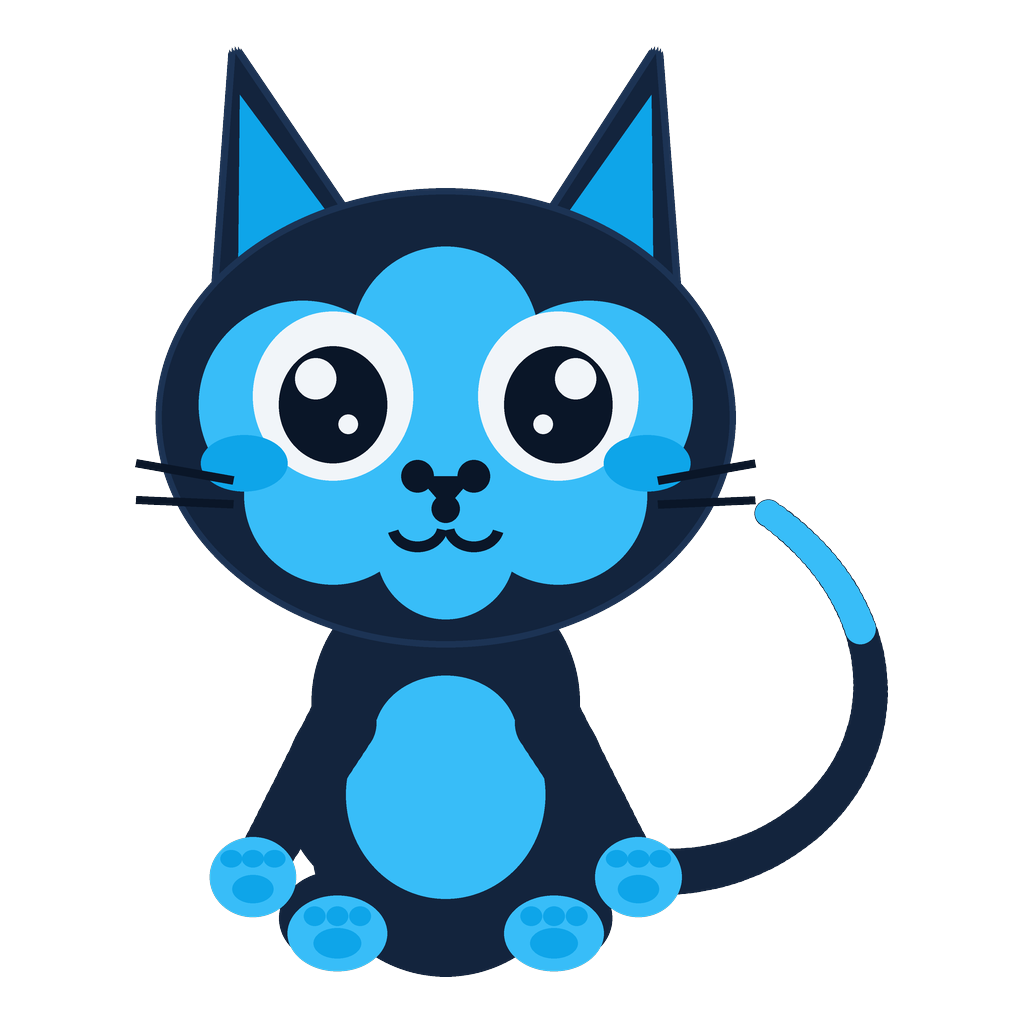
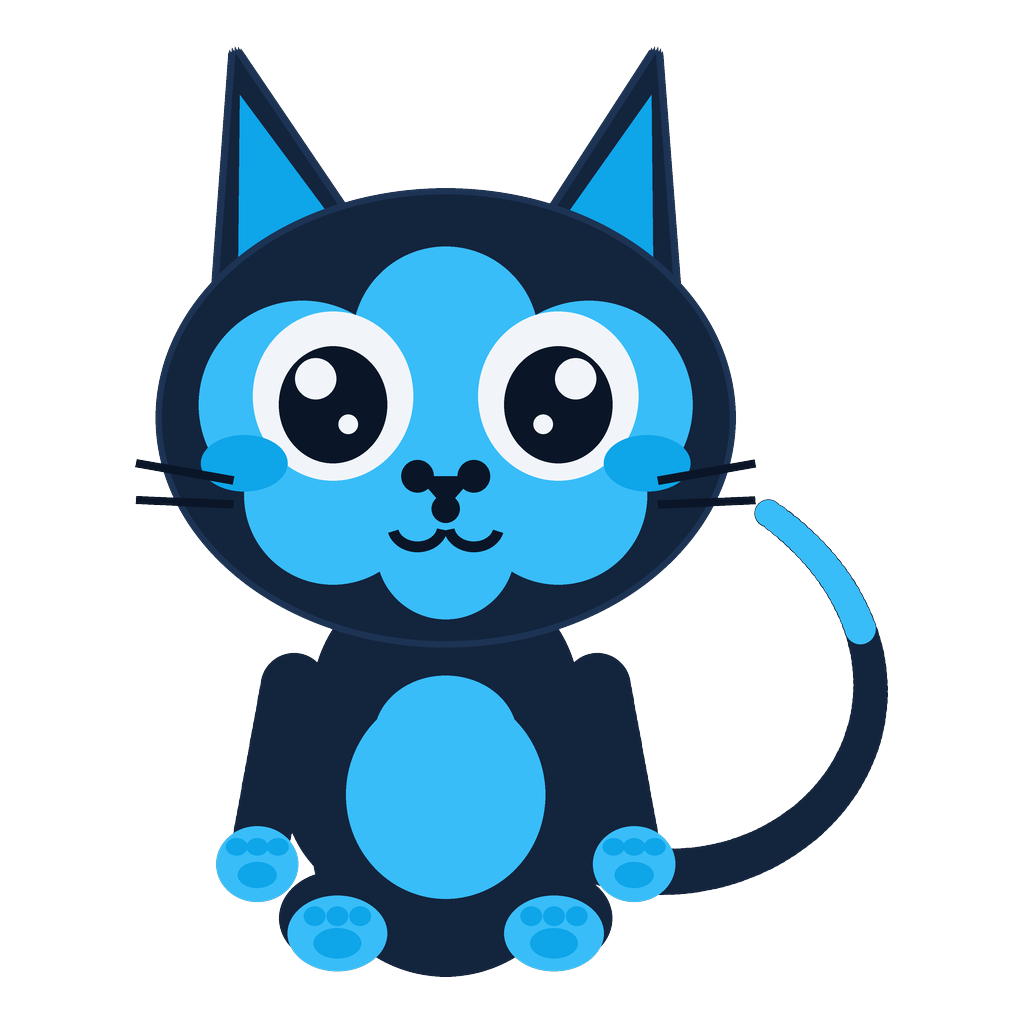
Mascot: attach the arms at the shoulder
The arm started deep inside the torso, around its middle. The arm is far
thinner than the body is wide, so the entire limb was swallowed by the
torso silhouette — no shoulder, no arm, just a paw apparently stuck to
the side of the body. Moving the paw made it worse, because the paw
travelled while the joint it hangs from stayed where it was.

The shoulder now sits high at the outer corner of the torso, just under
the head, and the arm hangs down the outside of the body. Measured along
its length: 37-52px of arm is visible outside the torso from shoulder to
paw, where before it was zero for most of the run.

diff --git a/scripts/make_mascot.py b/scripts/make_mascot.py
@@ -142,23 +142,26 @@ def draw_body(d):
     # Thin. At the old thickness the arm was as fat as the torso is deep, so
     # the two merged into one dark mass with paws stuck on the outside and no
     # limb readable at all.
-    # The paw has to clear the torso outline entirely. The torso is widest
-    # at y=786 (half-width 150) and narrows below that, so the hand hangs
-    # LOW — level with the widest point it was buried 14px deep and read as
-    # part of the body rather than a paw resting beside it. The arm drops
-    # steeply rather than reaching out sideways.
+    # The arm attaches at the SHOULDER — high, at the outer corner of the
+    # torso just under the head — and hangs down the OUTSIDE of the body.
+    #
+    # It used to start deep inside the torso around its middle. Because the
+    # arm is far thinner than the body is wide, the whole limb was swallowed
+    # by the torso silhouette: there was no shoulder, no arm, just a paw
+    # apparently stuck to the side. Moving the paw only made that worse,
+    # because the paw travelled while the joint it hangs from did not.
     for sx in (-1, 1):
-        shoulder_x = 512 + sx * 96
-        hand_x = 512 + sx * 178
+        shoulder_x = 512 + sx * 140
+        hand_x = 512 + sx * 174
         for i in range(21):
             t = i / 20
             cx = shoulder_x + (hand_x - shoulder_x) * t
-            cy = 726 + 142 * t
-            ell(d, cx, cy, 32 - 9 * t, 32 - 9 * t, NAVY)
-        ell(d, hand_x, 868, 40, 37, SKY)                       # paw
-        ell(d, hand_x, 879, 19, 13, SKY_DEEP)                  # palm pad
+            cy = 692 + 158 * t
+            ell(d, cx, cy, 31 - 5 * t, 31 - 5 * t, NAVY)
+        ell(d, hand_x, 856, 38, 35, SKY)                       # paw
+        ell(d, hand_x, 866, 18, 12, SKY_DEEP)                  # palm pad
         for f in (-1, 0, 1):                                   # toe beans
-            ell(d, hand_x + f * 20, 851, 10, 8, SKY_DEEP)
+            ell(d, hand_x + f * 19, 840, 10, 8, SKY_DEEP)
 
 
 # ---------------------------------------------------------------- head
